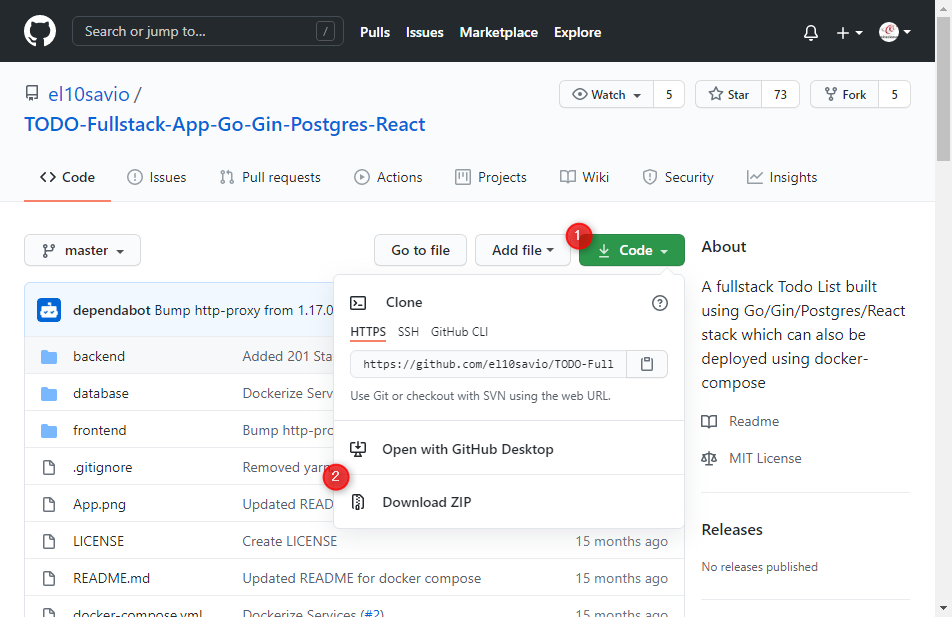
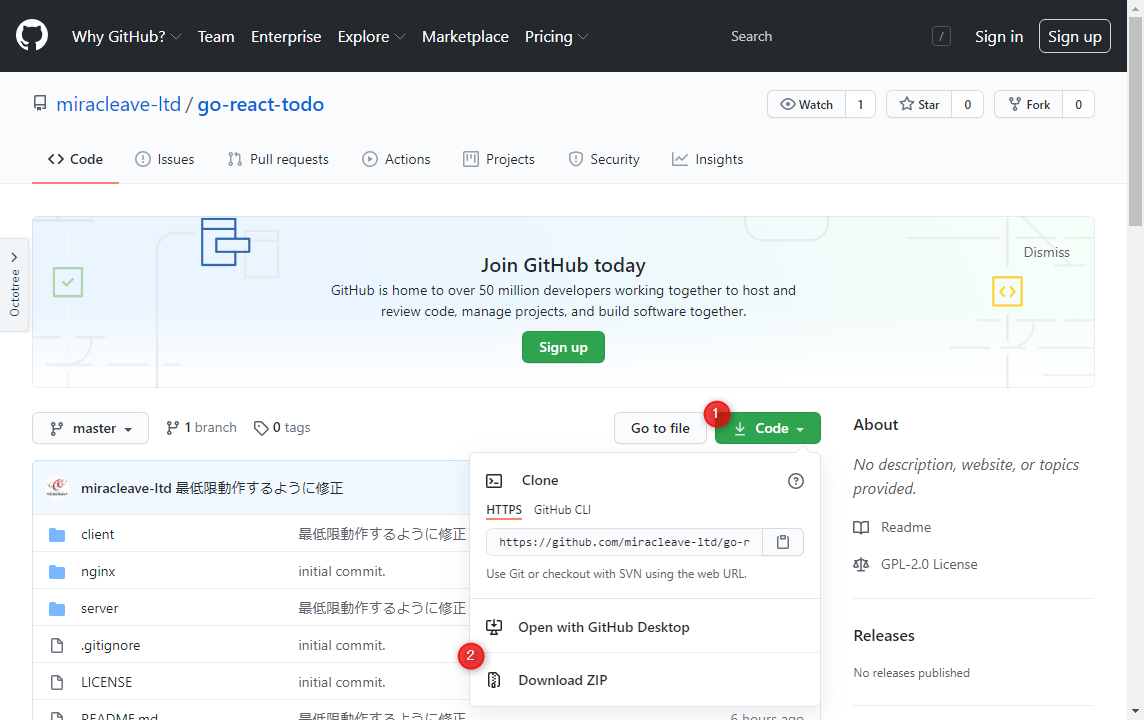
Update

diff --git a/honkit/Section2.md b/honkit/Section2.md
@@ -2,124 +2,148 @@
 
 ## Komposeを利用して、Kubernetes用yamlを作成しよう
 
-React+Go(Gin)+PostgresSQLのテンプレートを利用させてもらおうと思います。
-
-1. 今回利用するテンプレートの[GitHub](https://github.com/el10savio/TODO-Fullstack-App-Go-Gin-Postgres-React)よりプログラムをダウンロードします。
+1. React+Go(Gin)+PostgresSQLのTodoアプリを使用していきます。  
+    今回利用するアプリを[GitHub](https://github.com/miracleave-ltd/go-react-todo)よりプログラムをダウンロードします。
 
     ![github-source-dl](img/github-source-dl.png)
 
-2. Komposeコマンドでdocker-compose.ymlを変換します。  
+2. ローカル環境にDockerイメージを作成します。  
+    ※ダウンロードしたファイルを解凍したフォルダで実行してください。
+
+    1. フロントアプリのビルドを行います。  
+        次のコマンドを実行してください。
+
+        ```shell
+        docker-compose run client npm run build
+        ```
+
+        ![docker-compose-client-build](img/docker-compose-client-build.png)
+
+    2. バックエンドのビルドを行います。  
+        次のコマンドを実行してください。
+
+        ```shell
+        docker-compose run server go build
+        ```
+
+        ![docker-compose-backend-build](img/docker-compose-backend-build.png)
+
+    3. アプリイメージのビルドを行います。  
+        次のコマンドを実行してください。
+
+        ```shell
+        docker-compose -f docker-compose.prod.yml build
+        ```
+
+         ![docker-compose-prod-build](img/docker-compose-prod-build.png)
+
+3. Komposeでは、docker-compose.ymlファイルにKompose用Labelsを記載することで、Kompose用の設定を行うことができます。  
+    ![kompose-guide-labels](img/kompose-guide-labels.png)
+    参考URL：https://kompose.io/user-guide/
+
+    今回は以下の３点を修正します。
+    - ローカルでKubernetesを実行するため、 `kompose.service.type` を設定します。
+    - ローカルコンテナイメージを利用するため、 `kompose.image-pull-policy` を設定します。  
+    - Komposeで `depends_on` が対応していないため、 `port` を追加で設定します。
+
+    対象ファイル：(go-react-todo-master)/docker-compose.prod.yml  
+    ※port,labelsを追加しています。
+
+    ```yml
+    version: '3'
+    services:
+        postgres:
+            image: postgres
+            environment:
+                - POSTGRES_PASSWORD=postgres
+            ports:
+                - "5432:5432"
+        server:
+            build: ./server
+            command: ./app
+            ports:
+                - "3001"
+            depends_on:
+                - "postgres"
+            environment:
+                - POSTGRES_PASSWORD=postgres
+            labels:
+                kompose.image-pull-policy: Never
+        nginx:
+            build: ./nginx
+            ports:
+                - "8000:80"
+            labels:
+                kompose.service.type: nodeport
+                kompose.image-pull-policy: Never
+    ```
+
+4. Komposeコマンドでdocker-compose.ymlを変換します。  
+    `docker-compose.yml` を変換する場合は、 `-f` 以降は不要です。  
+    今回は開発時の者は不要ですので、production環境用のymlファイルをもとに変換します。  
     ※ダウンロードしたファイルを解凍したフォルダで実行してください。
 
     ```Shell
-    kompose convert
+    kompose convert -f docker-compose.prod.yml
     ```
 
     (WindowsPowerShell)
     ![kompose-convert-powershell](img/kompose-convert-powershell.png)
 
-3. 変換後の確認を行います。  
+5. 変換後の確認を行います。  
     次のファイルが生成されていることを確認してください。
 
-    - go-api-service.yaml
+    - nginx-service.yaml
     - postgres-service.yaml
-    - react-app-service.yaml
-    - go-api-deployment.yaml
+    - server-service.yaml
+    - nginx-deployment.yaml
     - postgres-deployment.yaml
-    - react-app-deployment.yaml
+    - server-deployment.yaml
 
-4. ダウンロードしたプログラムに誤りがあるため、修正を行います。
+6. Kubernetes用のyamlファイルは生成できたのですが、Komposeの変換だけでは対応しきれない部分の修正を行います。  
+    ローカルイメージを取得するため、ローカルイメージ名を記載します。  
 
-    対象ファイル：(TODO-Fullstack-App-Go-Gin-Postgres-React-master)/database/Dockerfile
+    対象ファイル：(go-react-todo)/server-deployment.yaml
 
-    ```Shell
-    - 7 COPY init /docker-entrypoint-initdb.d/
-    + 7 COPY *.sql /docker-entrypoint-initdb.d/
+    ```yml
+    - [36] image: server
+    + [36] image: go-react-todo-master_server
     ```
 
-5. ローカル環境にDockerイメージを作成します。
-    ※ダウンロードしたファイルを解凍したフォルダで実行してください。
+    対象ファイル：(go-react-todo)/nginx-deployment.yaml
 
-    ```Shell
-    docker-compose build
+    ```yml
+    - [33] - image: nginx
+    + [33] - image: go-react-todo-master_nginx
     ```
 
-6. Kubernetesに変換したファイルを反映します。
+7. Kubernetesに変換したファイルをKubernetesに反映します。
 
     ```Shell
-    kubectl apply -f go-api-service.yaml -f postgres-service.yaml -f react-app-service.yaml -f go-api-deployment.yaml -f postgres-deployment.yaml -f react-app-deployment.yaml
+    kubectl apply -f nginx-service.yaml -f postgres-service.yaml -f server-service.yaml -f nginx-deployment.yaml -f postgres-deployment.yaml -f server-deployment.yaml
     ```
 
     (WindowsPowerShell)
     ![kubectl-apply-kompose-file](img/kubectl-apply-kompose-file.png)
 
-7. Kubernetesの状態確認を行います。
+8. Kubernetesの状態確認を行います。
 
     ```Shell
-    kubectl get pods
-    kubectl get deployments
-    kubectl get services
+    kubectl get pods,deploy,svc
     ```
+
+    ※deploy -> deployments, svc -> services
 
     (WindowsPowerShell)
-    ![kubectl-get-pod-service](img/kubectl-get-pod-service.png)
+    ![kubectl-get-pod-service-deploy](img/kubectl-get-pod-service-deploy.png)
 
-8. 前述の赤枠部分について、*ImagePullBackOff*となり、正常にPodが起動していないため、起動するように修正します。  
-    原因としては、DockerイメージをPullしようとしてきたが存在しないため、エラーとなっています。  
-    ローカルのDockerイメージを取得するように修正します。  
-    また、goのプログラムが単純にバグがあるので合わせて修正します。
+9. Kubernetesに反映したプロジェクトを確認します。  
+    Kubernetesの状態確認を行った際にNginxの公開されているポートを確認します。  
+    NodePortは動的にポート番号を割り振るため、個々の端末によって異なります。  
+    ![kubectl-get-service-nodeport](img/kubectl-get-service-nodeport.png)
 
-    対象ファイル(1)：(TODO-Fullstack-App-Go-Gin-Postgres-React-master)/react-app-deployment.yaml
+    上記で確認したポート番号のLocalhostにアクセスしてください。  
+    http://localhost:XXXXX
 
-    ```yaml
-    - 29 - image: react-app
-    + 29 - image: todo-fullstack-app-go-gin-postgres-react-master_react-app
-    - 30 imagePullPolicy: ""
-    + 30 imagePullPolicy: Never
-    ```
-
-    対象ファイル(2)：(TODO-Fullstack-App-Go-Gin-Postgres-React-master)/go-api-deployment.yaml
-
-    ```yaml
-    - 29 - image: todo-fullstack-app-go-gin-postgres-react-master_go-api
-    + 29 - image: go-api
-    - 30 imagePullPolicy: ""
-    + 30 imagePullPolicy: Never
-    ```
-
-    対象ファイル(3)：(TODO-Fullstack-App-Go-Gin-Postgres-React-master)/react-app-service.yaml
-
-    ```yaml
-    + 15 nodePort: 30000
-    + 20 type: NodePort
-    ```
-
-    対象ファイル(4)：(TODO-Fullstack-App-Go-Gin-Postgres-React-master)/backend/api/api.go
-
-    ```go
-    - 24 // db, err = sql.Open("postgres", "postgres://postgres:password@postgres/todo?sslmode=disable")
-    + 24 db, err = sql.Open("postgres", "postgres://postgres:password@postgres/todo?sslmode=disable")
-    - 27 db, err = sql.Open("postgres", "postgres://postgres:password@localhost/todo?sslmode=disable")
-    ```
-
-    対象ファイル(5)：(TODO-Fullstack-App-Go-Gin-Postgres-React-master)/backend/main.go
-
-    ```go
-    - 6 api "./api"
-    + 6 api "build/api"
-    ```
-
-9. Kubernetesに修正したファイルを反映します。
-
-    ```Shell
-    kubectl apply -f go-api-deployment.yaml -f react-app-deployment.yaml
-    ```
-
-    (WindowsPowerShell)
-    ![kubectl-apply-deployment](img/kubectl-apply-deployment.png)
-
-10. Kubernetesに反映したプロジェクトを確認します。  
-    次のURLにアクセスしてください。  
-    http://localhost:30000
-
+    Todoアプリが表示しましたらデプロイ完了です。
     ![todo](img/todo.png)

diff --git a/honkit/README.md b/honkit/README.md
@@ -1,5 +1,24 @@
 # はじめに
 
+## 前提
+
+- [Docker Desktop](https://www.docker.com/products/docker-desktop)
+- [Git](https://git-scm.com/)
+
+※Windows/MacOSで確認しました。
+
+## Kubernetes
+
+Docker Desktopには、Kubernetesサーバーとクライアントが内包されています。
+Dockerインスタンス内でローカルに実行され、単一ノードクラスターとなっています。
+
+1. タスクバーにある![docker-icon](img/docker-desktop.png)を右クリックして、 `Settings` を選択してください。
+2. メニューにある `Kubernetes` を選択してください。
+    ![docker-desktop-kubernetes](img/docker-desktop-kubernetes.png)
+3. `Enable Kubernetes` をチェックし、 `Apply&Restart` をクリックしてください。  
+    しばらくすると③の箇所にKubernetes Runningと表示します。
+    ![docker-desktop-kubernetes-enable](img/docker-desktop-kubernetes-enable.png)
+
 ## Kompose
 
 ### Windowsの場合

diff --git a/honkit/SUMMARY.md b/honkit/SUMMARY.md
@@ -4,14 +4,13 @@
 * [セクション１](Section1.md)
 * [セクション２](Section2.md)
 * [セクション３](Section3.md)
-
----
+* [セクション４](Section4.md)
+* [セクション５](Section5.md)
 
 ## Tips
-
 * [Chocolateryインストール手順](Chocolatery.md)
 * [Homebrewインストール手順](Homebrew.md)
 
----
-
+-----
 * [会社紹介](Company.md)
+

diff --git a/honkit/Section5.md b/honkit/Section5.md
@@ -1,0 +1,4 @@
+# Section5
+
+今回のハンズオンで汚してしまった環境を片づけます。
+
